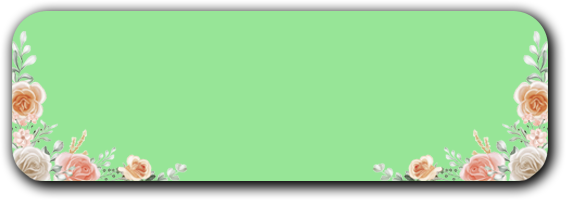
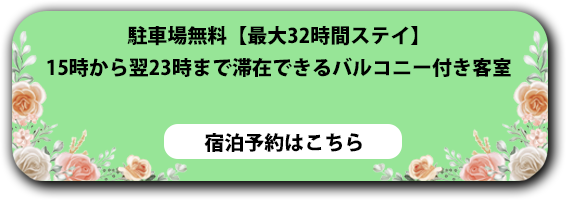
det

Changed region(s): [[0.2703, 0.6, 0.7208, 0.81], [0.0601, 0.27, 0.9011, 0.39], [0.2102, 0.12, 0.7509, 0.24]]

diff --git a/ozora-hotel/index.html b/ozora-hotel/index.html
@@ -14,11 +14,11 @@
                 <img src="/hotel/skrfs.png">
             </div>
             <div class="container2">
-                <div class="wrapper">
-                    <img src="/hotel/htld1.jpg" alt="">
-                    <img src="/hotel/htld2.jpg" alt="">
-                    <img src="/hotel/htlngt.jpg" alt="">
-                    <img src="/hotel/htld1.jpg" alt="">
+                <div class="topwrapper">
+                    <img src="/hotel/htld1.jpg" class="img-responsive" alt="">
+                    <img src="/hotel/htld2.jpg" class="img-responsive" alt="">
+                    <img src="/hotel/htlngt.jpg" class="img-responsive" alt="">
+                    <img src="/hotel/htld1.jpg" class="img-responsive" alt="">
                 </div>
             </div>
         </div>
@@ -51,10 +51,10 @@
     <div id="family">
         <h1><img src="/hotel/title1.jpg" alt=""></h1>
         <div class="pagewrap">
-            <div class="slider-container">
-                <div class="slider">
-                    <div class="slides">
-                        <div id="slides_1" class="slide">
+            <div class="fmslider-container">
+                <div class="fmslider">
+                    <div class="fmslides">
+                        <div id="slides_1" class="fmslide">
                             <div>
                                 <img src="/hotel/fm1.jpg" alt="">
                                 <p>大空リゾート®からは無料のシャトルバスによるアクセスも可能です。ホテルに到着したらフロントでチェックインをお済ませ下さい。
@@ -63,26 +63,26 @@
                             <a class="slide_prev" href="#slides_5" title="prev"><img src="/hotel/left.png" alt=""></a>
                             <a class="slide_next" href="#slides_2" title="next"><img src="/hotel/right.png" alt=""></a>
                         </div>
-                        <div id="slides_2" class="slide">
+                        <div id="slides_2" class="fmslide">
                             <img src="/hotel/fm2.jpg" alt="">
                             <p>客室は全室広々設計で、ファミリーやグループみんなでくつろげます。また、全室がバス・トイレ別で、洗い場付きのお風呂はお子様がいるファミリーにご好評です。</p>
                         </div>
                         <a class="slide_prev" href="#slides_1" title="prev"></a>
                         <a class="slide_next" href="#slides_3" title="next"></a>
-                        <div id="slides_3" class="slide">
+                        <div id="slides_3" class="fmslide">
                             <img src="/hotel/fm3.jpg" alt="">
                             <p>館内には、お子様連れのご家族はもちろん、さまざまな年代の方が快適に過ごしていただける施設やサービスをご用意しています。
                             </p>
                         </div>
                         <a class="slide_prev" href="#slides_2" title="prev"></a>
                         <a class="slide_next" href="slides_4" title="next"></a>
-                        <div id="slides_4" class="slide">
+                        <div id="slides_4" class="fmslide">
                             <img src="/hotel/fm4.jpg" alt="">
                             <p>ホテルの目の前には市内唯一の総合公園「浦安市総合公園」があり、海を眺めながら芝生の上で遊んだりくつろいだりできます。</p>
                         </div>
                         <a class="slide_prev" href="#slides_3" title="prev"></a>
                         <a class="slide_next" href="#slides_5" title="next"></a>
-                        <div id="slides_5" class="slide">
+                        <div id="slides_5" class="fmslide">
                             <img src="/hotel/fm5.jpg" alt="">
                             <p>最上階の7階には、宿泊者限定でご利用できる大浴場を用意。海を一望できる大浴場で、ご家族みんなで癒やされて下さい。
                             <br>※小学1年生以上の方は、男女別のご利用とさせていただきます。</p>
@@ -100,20 +100,20 @@
                 </div>
             </div>
         </div>
-        <div class="button">
-            <a class="fmbutton1" href="#"><img src="" alt=""></a>
-            <a class="fmbutton2" href="#"><img src="" alt=""></a>
+        <div class="fmbutton">
+            <a class="fmbutton1" href="#"><img src="/hotel/tekslink1.png" alt=""></a>
+            <a class="fmbutton2" href="#"><img src="/hotel/tekslink2.png" alt=""></a>
         </div>
     </div>
     <div id="child">
-        <h1><img></h1>
+        <h1><img src="/hotel/mp.jpg"></h1>
         <div class="pagewrap">
             <div class="">
                 <img class="" src="" alt="">
                 <p>大空ホテルは「ウェルカムベビーのお宿」認定ホテルです。全室がバス・トイレ独立型で小さなお子様と 一緒の宿泊にも安心。認定部屋のプラナフォースルームは靴が脱げるお部屋でお子様と一緒にお寛ぎいただけます。</p>
             </div>
             <div class="childbutton">
-                <a href=""><img class="" src="" alt=""></a>
+                <a href=""><img class="" src="/hotel/tekslink3.png" alt=""></a>
             </div>
         </div>
     </div>

diff --git a/ozora-hotel/hotel.css b/ozora-hotel/hotel.css
@@ -7,19 +7,25 @@
 img {
   width: 100%;
 }
+.img-responsive{
+  max-width: 100%;
+  display: block;
+  height: auto;
+}
 
 body {
-
+  width: 100%;
   color: black;
 }
 
 
 
 .container {
+  z-index: 100;
   width: 100%;
   position: absolute;
-  transform: translateX(-50%);
-  left: 50%;
+  transform: translateX(-100%);
+  left: 100%;
 }
 
 .flowertop {
@@ -39,14 +45,15 @@ body {
   position: relative;
   overflow: hidden;
 }
-.wrapper {
+.topwrapper {
   width: 100%;
+  max-width: 100%;
   display: flex;
-  animation: slide 20s infinite;
+  animation: topslide 15s infinite;
 }
 
 
-@keyframes slide {
+@keyframes topslide {
   0%{
     transform: translateX(0);
   }
@@ -74,6 +81,7 @@ body {
 }
 
 .top h1 img {
+  z-index: 100;
   max-width: 990px;
   width: 50%;
   position: relative;
@@ -83,6 +91,7 @@ body {
 }
 
 .top h2 img {
+  z-index: 100;
   max-width: 990px;
   width: 40%;
   position: relative;
@@ -91,9 +100,7 @@ body {
   padding-top: 17%;
 }
 
-.text {
-  animation: fadein ease 5s;
-}
+
 @keyframes fadein {
   0%{opacity: 0;}
   100%{opacity: 1;}
@@ -101,9 +108,7 @@ body {
 
 .navigation {
  position: absolute;
- z-index: 100;
  border-style: solid;
- border-width: 10px;
  border-color: rgb(183, 220, 183);
  background-color: rgb(154, 224, 188);
  position: relative;
@@ -114,24 +119,31 @@ body {
  border: 5px solid rgb(154, 224, 188);
 }
 .navigation ul {
-  display: block;
+  display: flex;
   list-style: none;
-  justify-content: center;
+  justify-content: flex-start;
   position: sticky;
   background-color: #BBDEBB;
-  margin: auto;
+  margin-left: 2px;
+  margin-right: 2px;
 }
 .navigation li {
-  display: inline-block;
+  display: flex;
   font-size: 15px;
   font-family: "小塚ゴシック Pr6N";
   text-align: center;
-  padding: 0;
+  padding: 3px;
+  padding-right: 9%;
+  padding-top: 5px;
+  padding-bottom: 32px;
 }
 .navigation li a{
   text-decoration: none;
   background-color: #BBDEBB;
   display: inline-block;
+}
+.navigation li a:hover{
+  color: white;
 }
 .navigation ul li p{
   display: inline-block;
@@ -141,76 +153,89 @@ body {
   margin-left: 1.0em;
 }
 
-
-/*
 #family {
-  background-image: url(/hotel/ltt.png);
-  background-repeat: no-repeat;
-  display: block;
+  background-color: #BBDEBB;
+  max-width: fit-content;
   width: 100%;
-  justify-content: center;
-  box-sizing: border-box;
-  position: absolute;
+  margin-top: 10px;
+  margin-left: 50px;
+  margin-right: 50px;
 }
-#family h1 img {
-  margin-top: 10%;
-}
-.slider-container {
+
+.fmslider-conteiner {
   display: flex;
-  height: 100%;
   justify-content: center;
 }
-.slider {
+.fmslider {
   width: 100%;
-  max-width: 950px;
-  height: 770px;
-  margin: 20px;
+  height: 1600px;
   text-align: center;
-  background-color: white;
   overflow: hidden;
   position: relative;
 }
-.slides {
+.fmslides {
   display: flex;
+  overflow: auto;
   position: relative;
+  scroll-behavior: smooth;
 }
-.slide:nth-of-type(even) {
- background-color: #BBDEBB;
-}
-.slide {
+.fmslide {
   display: flex;
   justify-content: center;
-  align-items: center;
   flex-shrink: 0;
-  margin-right: 0px;
   width: 100%;
-  height: 100%;
   box-sizing: border-box;
-  background: white;
   transform-origin: center center;
   transform: scale(1);
 }
-.slides p {
-  height: 200px;
-  font-size: 18px;
-  font-family: "小塚ゴシック Pr6N";
-  line-height: 1,2;
-  text-align: center;
+.fmbutton {
+  width: 600px;
+  display: block;
+  margin-left: auto;
+  margin-right: auto;
 }
-.slides a {
+.fmslide img {
+  max-width: auto;
+}
+.fmslide a {
   background: none;
-  border: none;
+  border: 0;
+
 }
 
 a.slide_prev,
-.slider::before {
-  transform: rotate(135deg);
-  -webkit-transform: rotate(135deg);
+.fmslider::before {
   left: 5%;
 }
 a.slide_next,
-.slide::after {
-  transform: rotate(-45deg);
-  -webkit-transform: rotate(-45deg);
-  left: 5%;
+.fmslider::after {
+  right: 5%;
+}
+
+.fmslider::before,
+.fmslider::after,
+.slide_prev,
+.slide_next {
+  position: absolute;
+  margin-top: 450px;
+  box-sizing: border-box;
+}
+.fmslider::before,
+.fmslider::after {
+  z-index: 1;
+  pointer-events: none;
+}
+
+.slider_nav {
+  box-sizing: border-box;
+  position: absolute;
+  bottom: 5%;
+  left: 50%;
+  width: 200px;
+  margin-left: -100px;
+  text-align: center;
+}
+.slider_navlink {
+  display: inline-block;
+
 }
